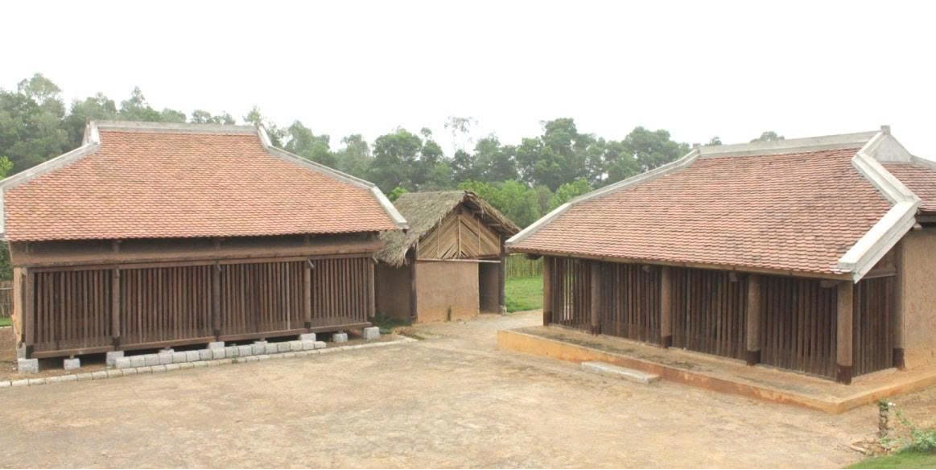
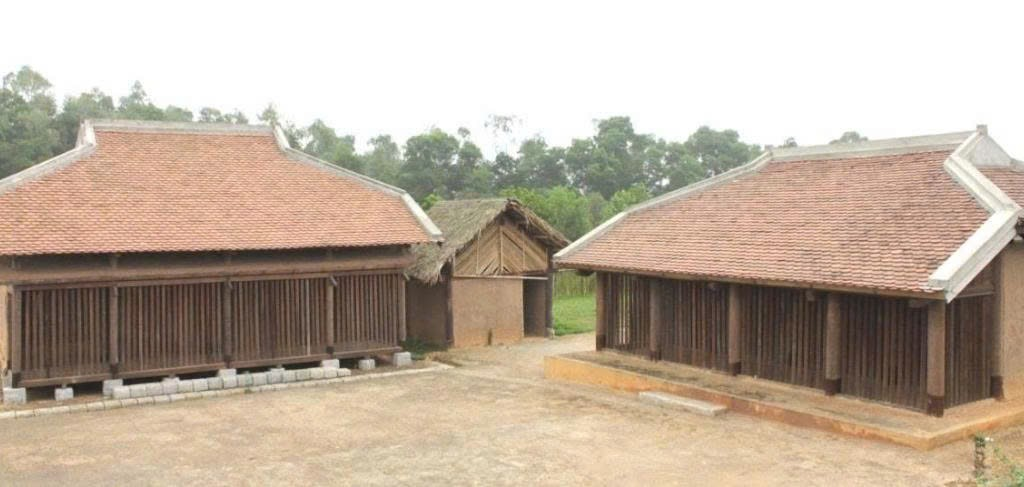
fix: update hero image selection logic for nha-sinh-hoat-cham landmark

diff --git a/src/app/landmarks/[id]/page.tsx b/src/app/landmarks/[id]/page.tsx
@@ -257,7 +257,9 @@ export default async function LandmarkStoryPage({ params, searchParams }: Props)
     '--terrain-accent': terrain.border,
     '--terrain-strong': strong,
   } as CSSProperties;
-  const hero = availableImage(storiesContent[landmark.stories[0]?.id]?.heroImage) ?? availableImage(landmark.image);
+  const hero = landmark.id === 'nha-sinh-hoat-cham'
+    ? availableImage(landmark.image)
+    : availableImage(storiesContent[landmark.stories[0]?.id]?.heroImage) ?? availableImage(landmark.image);
 
   return (
     <div className={`${styles.readerViewport} ${serif.variable} ${sans.variable}`} style={variables} data-reader-scroll>
